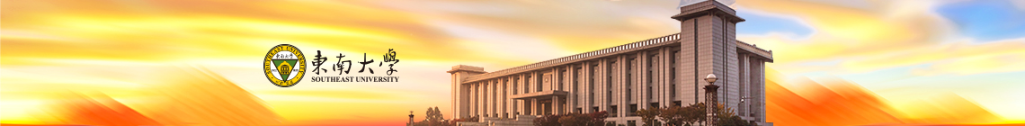
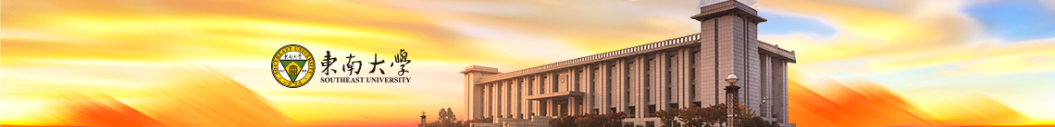
cgz

diff --git a/src/DAO/Shop/buyers_Shop_utils.java b/src/DAO/Shop/buyers_Shop_utils.java
@@ -1,5 +1,4 @@
 package DAO.Shop;
-import User.Student;
 import connection.JDBC_Connector;
 
 import java.sql.*;
@@ -15,11 +14,12 @@ import static DAO.Shop.image_Shop_utils.readDBImage;
  * @createTime : [2022.08.19 15:31]
  */
 public class buyers_Shop_utils {
-    public static Connection c;
+
+    public static Connection connection;    //连接数据库
 
     static {
         try {
-            c = JDBC_Connector.ConnectMySQL();
+            connection = JDBC_Connector.ConnectMySQL();
         } catch (SQLException e) {
             throw new RuntimeException(e);
         }
@@ -28,7 +28,6 @@ public class buyers_Shop_utils {
     //模糊查找
     public static List<Product> checkProduct(String product_name) throws SQLException {
         List<Product> list = new ArrayList<>();
-        Connection connection= JDBC_Connector.ConnectMySQL();    //连接数据库
         Statement state = connection.createStatement();
         String sql="select * from products WHERE Product_name LIKE '%" + product_name + "%' ";
         ResultSet rs= state.executeQuery(sql);            //执行sql
@@ -44,13 +43,11 @@ public class buyers_Shop_utils {
             temp.setProduct_toshop(rs.getInt("Product_toshop"));
             list.add(temp);
         }
-        JDBC_Connector.close(rs, null, connection);
         return list;
     }
 
     public static List<ProductPair> getBuyedandNum(String idcard) throws SQLException {
         List<ProductPair> s = new ArrayList<>();
-        Connection connection= JDBC_Connector.ConnectMySQL();    //连接数据库
         Statement state = connection.createStatement();
         String sql= "select * from buyedproducted where Stu_Tea_id= "+idcard;
         ResultSet rs= state.executeQuery(sql);            //执行sql
@@ -60,13 +57,11 @@ public class buyers_Shop_utils {
             p.setNum(rs.getInt("buyedproductedNum"));
             s.add(p);
         }
-        JDBC_Connector.close(rs, null, connection);
         return s;
     }
 
     public static List<ProductPair> getReadytoBuyandNum(String idcard) throws SQLException {
         List<ProductPair> s = new ArrayList<>();
-        Connection connection= JDBC_Connector.ConnectMySQL();    //连接数据库
         Statement state = connection.createStatement();
         String sql= "select * from readytobuyproducts where Stu_Tea_id= "+idcard;
         ResultSet rs= state.executeQuery(sql);            //执行sql
@@ -76,13 +71,11 @@ public class buyers_Shop_utils {
             p.setNum(rs.getInt("product_num"));
             s.add(p);
         }
-        JDBC_Connector.close(rs, null, connection);
         return s;
     }
 
     public static List<Product> returnAllProduct() throws SQLException {
         List<Product> list = new ArrayList<>();
-        Connection connection= JDBC_Connector.ConnectMySQL();    //连接数据库
         Statement state = connection.createStatement();
         String sql="select * from products";
         ResultSet rs= state.executeQuery(sql);            //执行sql
@@ -99,13 +92,11 @@ public class buyers_Shop_utils {
             list.add(temp);
             readDBImage(rs.getInt("Product_id"));
         }
-        JDBC_Connector.close(rs, null, connection);
         return list;
     }
 
     public static List<Product> findTypeProduct(String type) throws SQLException {
         List<Product> list = new ArrayList<>();
-        Connection connection= JDBC_Connector.ConnectMySQL();    //连接数据库
         Statement state = connection.createStatement();
         String sql="select * from products WHERE Product_type LIKE '%" + type + "%' ";
         ResultSet rs= state.executeQuery(sql);            //执行sql
@@ -121,12 +112,10 @@ public class buyers_Shop_utils {
             temp.setProduct_toshop(rs.getInt("Product_toshop"));
             list.add(temp);
         }
-        JDBC_Connector.close(rs, null, connection);
         return list;
     }
 
     public static Product checkCertainProduct(int id) throws SQLException {
-        Connection connection= JDBC_Connector.ConnectMySQL();    //连接数据库
         Product temp = new Product();
         String sql="select * from products where Product_id=?";
         PreparedStatement ps = connection.prepareStatement(sql);
@@ -142,16 +131,13 @@ public class buyers_Shop_utils {
             temp.setProduct_type(rs.getString("Product_type"));
             temp.setProduct_toshop(rs.getInt("Product_toshop"));
         }else {
-            JDBC_Connector.close(rs, ps, connection);
             return null;
         }
-        JDBC_Connector.close(rs, ps, connection);
         return temp;
     }
 
     //UI界面先直接判断钱够不够，这里判断数量够不够，假设可以买 更新用户余额，更新商品num
     public static String buyCertainProduct(String idcard, int id, int num, double money) throws SQLException {
-        Connection connection= JDBC_Connector.ConnectMySQL();    //连接数据库
         String sql="select * from products where Product_id=?";
         PreparedStatement ps = connection.prepareStatement(sql);
         ps.setInt(1, id);
@@ -186,12 +172,10 @@ public class buyers_Shop_utils {
             }
         }
         addToHaveShopped(idcard,id,num);
-        JDBC_Connector.close(null, ps, connection);
         return "购买成功";
     }
 
-    public static Boolean addToShopCar(String idcard, int id, int num) throws SQLException {
-        Connection connection= JDBC_Connector.ConnectMySQL();    //连接数据库
+    public static boolean addToShopCar(String idcard, int id, int num) throws SQLException {
         String sql="insert into readytobuyproducts values(?,?,?)";
         PreparedStatement ps = connection.prepareStatement(sql);
         ps = connection.prepareStatement(sql);
@@ -203,12 +187,10 @@ public class buyers_Shop_utils {
             System.out.println("添加成功！");
         else
             System.out.println("添加失败！");
-        JDBC_Connector.close(null, ps, connection);
         return re;
     }
 
     public static Boolean addToHaveShopped(String idcard, int id, int num) throws SQLException {
-        Connection connection= JDBC_Connector.ConnectMySQL();    //连接数据库
         String sql="insert into buyedproducted values(?,?,?)";
         PreparedStatement ps = connection.prepareStatement(sql);
         ps.setString(1, idcard);
@@ -219,30 +201,23 @@ public class buyers_Shop_utils {
             System.out.println("添加成功！");
         else
             System.out.println("添加失败！");
-        JDBC_Connector.close(null, ps, connection);
         return re;
     }
 
-    public static Boolean deleteShopCar(String idcard, int id, int num) throws SQLException {
-        Connection connection= JDBC_Connector.ConnectMySQL();    //连接数据库
+    public static boolean deleteShopCar(String idcard, int id, int num) throws SQLException {
         String sql="delete from readytobuyproducts where (Stu_Tea_id=? and product_id=?)";
         PreparedStatement ps = connection.prepareStatement(sql);
         ps.setString(1,idcard);
         ps.setInt(2,id);
         boolean re = ps.executeUpdate()>0;
-        JDBC_Connector.close(null, ps, connection);
         if(re)
             System.out.println("删除成功！");
         else
             System.out.println("删除失败！");
-        JDBC_Connector.close(null, ps, connection);
         return re;
     }
 
-
-
     public static double getMoney(String idcard) throws SQLException {
-        Connection connection=JDBC_Connector.ConnectMySQL();
         String sql="select * from students where Student_idcard=? ";
         PreparedStatement st= connection.prepareStatement(sql);
         st.setString(1, idcard);
@@ -254,14 +229,14 @@ public class buyers_Shop_utils {
         return money;
     }
 
-    public static void main(String[] args) throws Exception {
-//        if(checkCertainProduct(111)!=null)
-        System.out.println(deleteShopCar("09020201",1,1));
-//        else
-//            System.out.println("checkCertainProduct(1).getProduct_name()");
-//        List<Product> list = findTypeProduct("饮料");
-//        for (int i = 0; i < list.size(); i++) {
-//            System.out.println(list.get(i).getProduct_name());
-//        }
-    }
+//    public static void main(String[] args) throws Exception {
+////        if(checkCertainProduct(111)!=null)
+//        System.out.println(deleteShopCar("09020201",1,1));
+////        else
+////            System.out.println("checkCertainProduct(1).getProduct_name()");
+////        List<Product> list = findTypeProduct("饮料");
+////        for (int i = 0; i < list.size(); i++) {
+////            System.out.println(list.get(i).getProduct_name());
+////        }
+//    }
 }

diff --git a/src/UIviewer/login/functionChoose.java b/src/UIviewer/login/functionChoose.java
@@ -227,18 +227,18 @@ public class functionChoose {
         //横向图片
         JLabel l12 = new JLabel();
         ImageIcon icon5 = new ImageIcon("src/image/banner3.png");
-        int icon5_width= 1020;
+        int icon5_width= 1030;
         int icon5_height=125;
         try {
             Thumbnails.of(new File("src/image/banner3.png"))
-                    .keepAspectRatio(false)
                     .size((int)(icon5_width*width_r+20), (int)(icon5_height*height_r))
+                    .keepAspectRatio(false)
                     .toFile(new File("src/image/banner3_min.png"));
         } catch (IOException e) {
             throw new RuntimeException(e);
         }
         l12.setIcon(new ImageIcon("src/image/banner3_min.png"));
-        l12.setBounds((int) (310*width_r), (int) (70*height_r), (int) (1020*width_r), (int) (125*height_r));
+        l12.setBounds((int) (310*width_r), (int) (70*height_r), (int) (1020*width_r+20), (int) (125*height_r));
         fc_panel.add(l12);
 
         //文字

diff --git a/src/UIviewer/login/LoginFrame.java b/src/UIviewer/login/LoginFrame.java
@@ -1,7 +1,6 @@
 package UIviewer.login;
 import ClientToServer.ClientToServer;
 import connection.JDBC_Connector;
-
 import java.awt.EventQueue;
 import javax.swing.*;
 import java.awt.Font;
